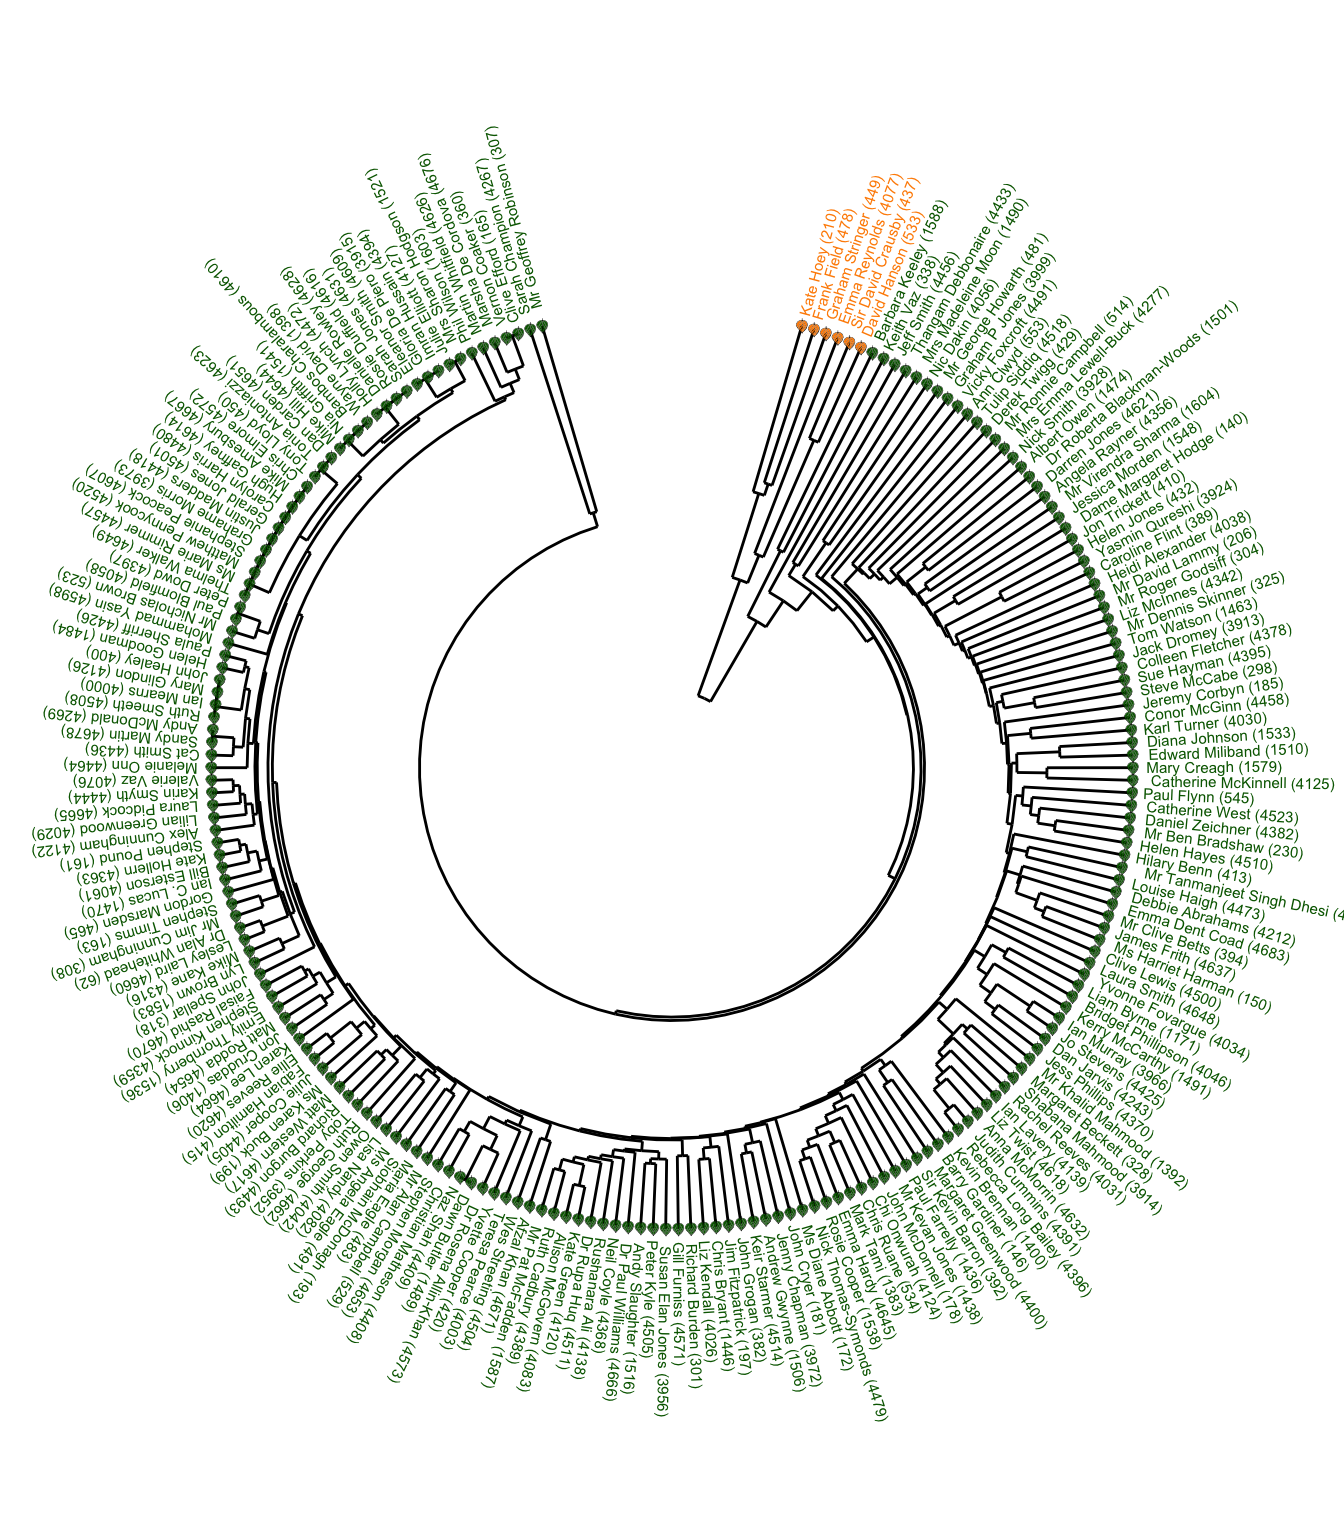
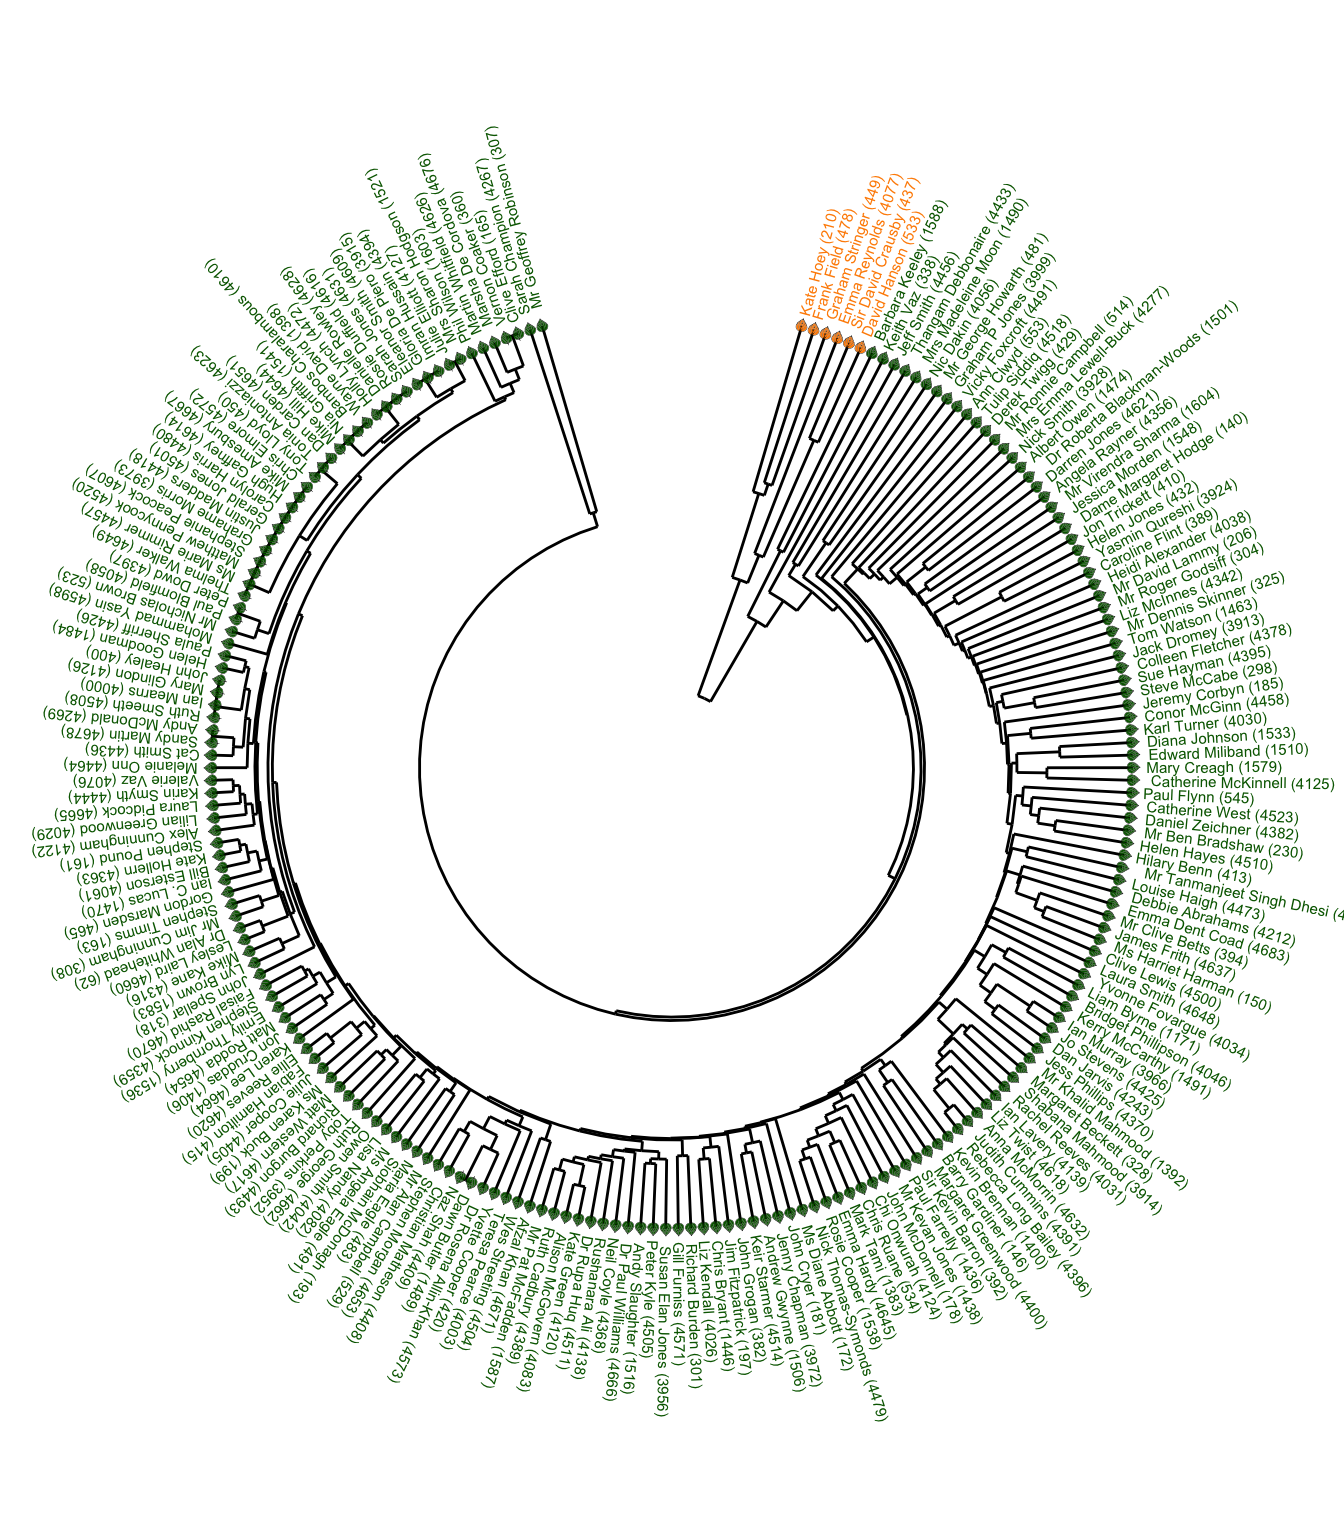
Add angle to leaves in Hansard

diff --git a/_site/project/hansard/index.html b/_site/project/hansard/index.html
@@ -246,7 +246,7 @@ div.csl-indent {
     <div>
     <div class="quarto-title-meta-heading">Modified</div>
     <div class="quarto-title-meta-contents">
-      <p class="date-modified">June 28, 2024</p>
+      <p class="date-modified">July 3, 2024</p>
     </div>
   </div>
     
@@ -511,6 +511,7 @@ div.csl-indent {
 <span><span class="va">dd</span><span class="op">$</span><span class="va">labels</span> <span class="op">&lt;-</span> <span class="va">dd</span><span class="op">$</span><span class="va">labels</span> <span class="op">|&gt;</span> <span class="fu"><a href="https://dplyr.tidyverse.org/reference/mutate.html">mutate</a></span><span class="op">(</span>fill <span class="op">=</span> <span class="fu"><a href="https://dplyr.tidyverse.org/reference/if_else.html">if_else</a></span><span class="op">(</span><span class="va">x</span> <span class="op">&lt;=</span> <span class="fl">6</span>, <span class="st">"darkorange"</span>, <span class="st">"darkgreen"</span><span class="op">)</span><span class="op">)</span></span>
 <span></span>
 <span><span class="va">angle</span> <span class="op">&lt;-</span> <span class="fu"><a href="https://rdrr.io/r/base/seq.html">seq</a></span><span class="op">(</span><span class="fl">75</span>, by <span class="op">=</span> <span class="op">-</span><span class="fl">1.58</span>, length.out <span class="op">=</span> <span class="fl">210</span><span class="op">)</span></span>
+<span><span class="va">shape_angle</span> <span class="op">&lt;-</span> <span class="fu"><a href="https://rdrr.io/r/base/seq.html">seq</a></span><span class="op">(</span><span class="fl">165</span>, by <span class="op">=</span> <span class="op">-</span><span class="fl">1.58</span>, length.out <span class="op">=</span> <span class="fl">210</span><span class="op">)</span></span>
 <span></span>
 <span><span class="fu"><a href="https://ggplot2.tidyverse.org/reference/ggplot.html">ggplot</a></span><span class="op">(</span><span class="fu"><a href="https://andrie.github.io/ggdendro/reference/segment.html">segment</a></span><span class="op">(</span><span class="va">dd</span><span class="op">)</span><span class="op">)</span> <span class="op">+</span></span>
 <span>  <span class="fu"><a href="https://ggplot2.tidyverse.org/reference/geom_segment.html">geom_segment</a></span><span class="op">(</span><span class="fu"><a href="https://ggplot2.tidyverse.org/reference/aes.html">aes</a></span><span class="op">(</span>x <span class="op">=</span> <span class="va">x</span>, y <span class="op">=</span> <span class="va">y</span>, xend <span class="op">=</span> <span class="va">xend</span>, yend <span class="op">=</span> <span class="va">yend</span><span class="op">)</span><span class="op">)</span> <span class="op">+</span></span>
@@ -519,8 +520,8 @@ div.csl-indent {
 <span>    size <span class="op">=</span> <span class="fl">2</span>, hjust <span class="op">=</span> <span class="op">-</span><span class="fl">0.1</span>, data <span class="op">=</span> <span class="va">dd</span><span class="op">$</span><span class="va">labels</span></span>
 <span>    <span class="op">)</span> <span class="op">+</span></span>
 <span>  <span class="fu"><a href="https://cgoo4.github.io/ggfoundry/reference/geom_casting.html">geom_casting</a></span><span class="op">(</span></span>
-<span>    <span class="fu"><a href="https://ggplot2.tidyverse.org/reference/aes.html">aes</a></span><span class="op">(</span>x <span class="op">=</span> <span class="va">x</span>, y <span class="op">=</span> <span class="va">y</span>, fill <span class="op">=</span> <span class="va">fill</span><span class="op">)</span>, shape <span class="op">=</span> <span class="st">"hibiscus"</span>,</span>
-<span>    size <span class="op">=</span> <span class="fl">0.025</span>, data <span class="op">=</span> <span class="va">dd</span><span class="op">$</span><span class="va">labels</span></span>
+<span>    <span class="fu"><a href="https://ggplot2.tidyverse.org/reference/aes.html">aes</a></span><span class="op">(</span>x <span class="op">=</span> <span class="va">x</span>, y <span class="op">=</span> <span class="va">y</span>, fill <span class="op">=</span> <span class="va">fill</span>, group <span class="op">=</span> <span class="va">x</span><span class="op">)</span>, angle <span class="op">=</span> <span class="va">shape_angle</span>, </span>
+<span>    shape <span class="op">=</span> <span class="st">"hibiscus"</span>, size <span class="op">=</span> <span class="fl">0.025</span>, data <span class="op">=</span> <span class="va">dd</span><span class="op">$</span><span class="va">labels</span></span>
 <span>    <span class="op">)</span> <span class="op">+</span></span>
 <span>  <span class="fu"><a href="https://ggplot2.tidyverse.org/reference/scale_continuous.html">scale_y_reverse</a></span><span class="op">(</span>expand <span class="op">=</span> <span class="fu"><a href="https://rdrr.io/r/base/c.html">c</a></span><span class="op">(</span><span class="fl">0.2</span>, <span class="fl">0</span><span class="op">)</span><span class="op">)</span> <span class="op">+</span> </span>
 <span>  <span class="fu"><a href="https://ggplot2.tidyverse.org/reference/scale_identity.html">scale_fill_identity</a></span><span class="op">(</span><span class="op">)</span> <span class="op">+</span></span>
@@ -637,7 +638,7 @@ div.csl-indent {
 <tbody>
 <tr class="odd">
 <td style="text-align: left;">base</td>
-<td style="text-align: left;">c[7], labels[1], library[15], list[3], max[2], min[2], nrow[1], readRDS[2], round[3], saveRDS[2], seq[1]</td>
+<td style="text-align: left;">c[7], labels[1], library[15], list[3], max[2], min[2], nrow[1], readRDS[2], round[3], saveRDS[2], seq[2]</td>
 </tr>
 <tr class="even">
 <td style="text-align: left;">conflicted</td>
